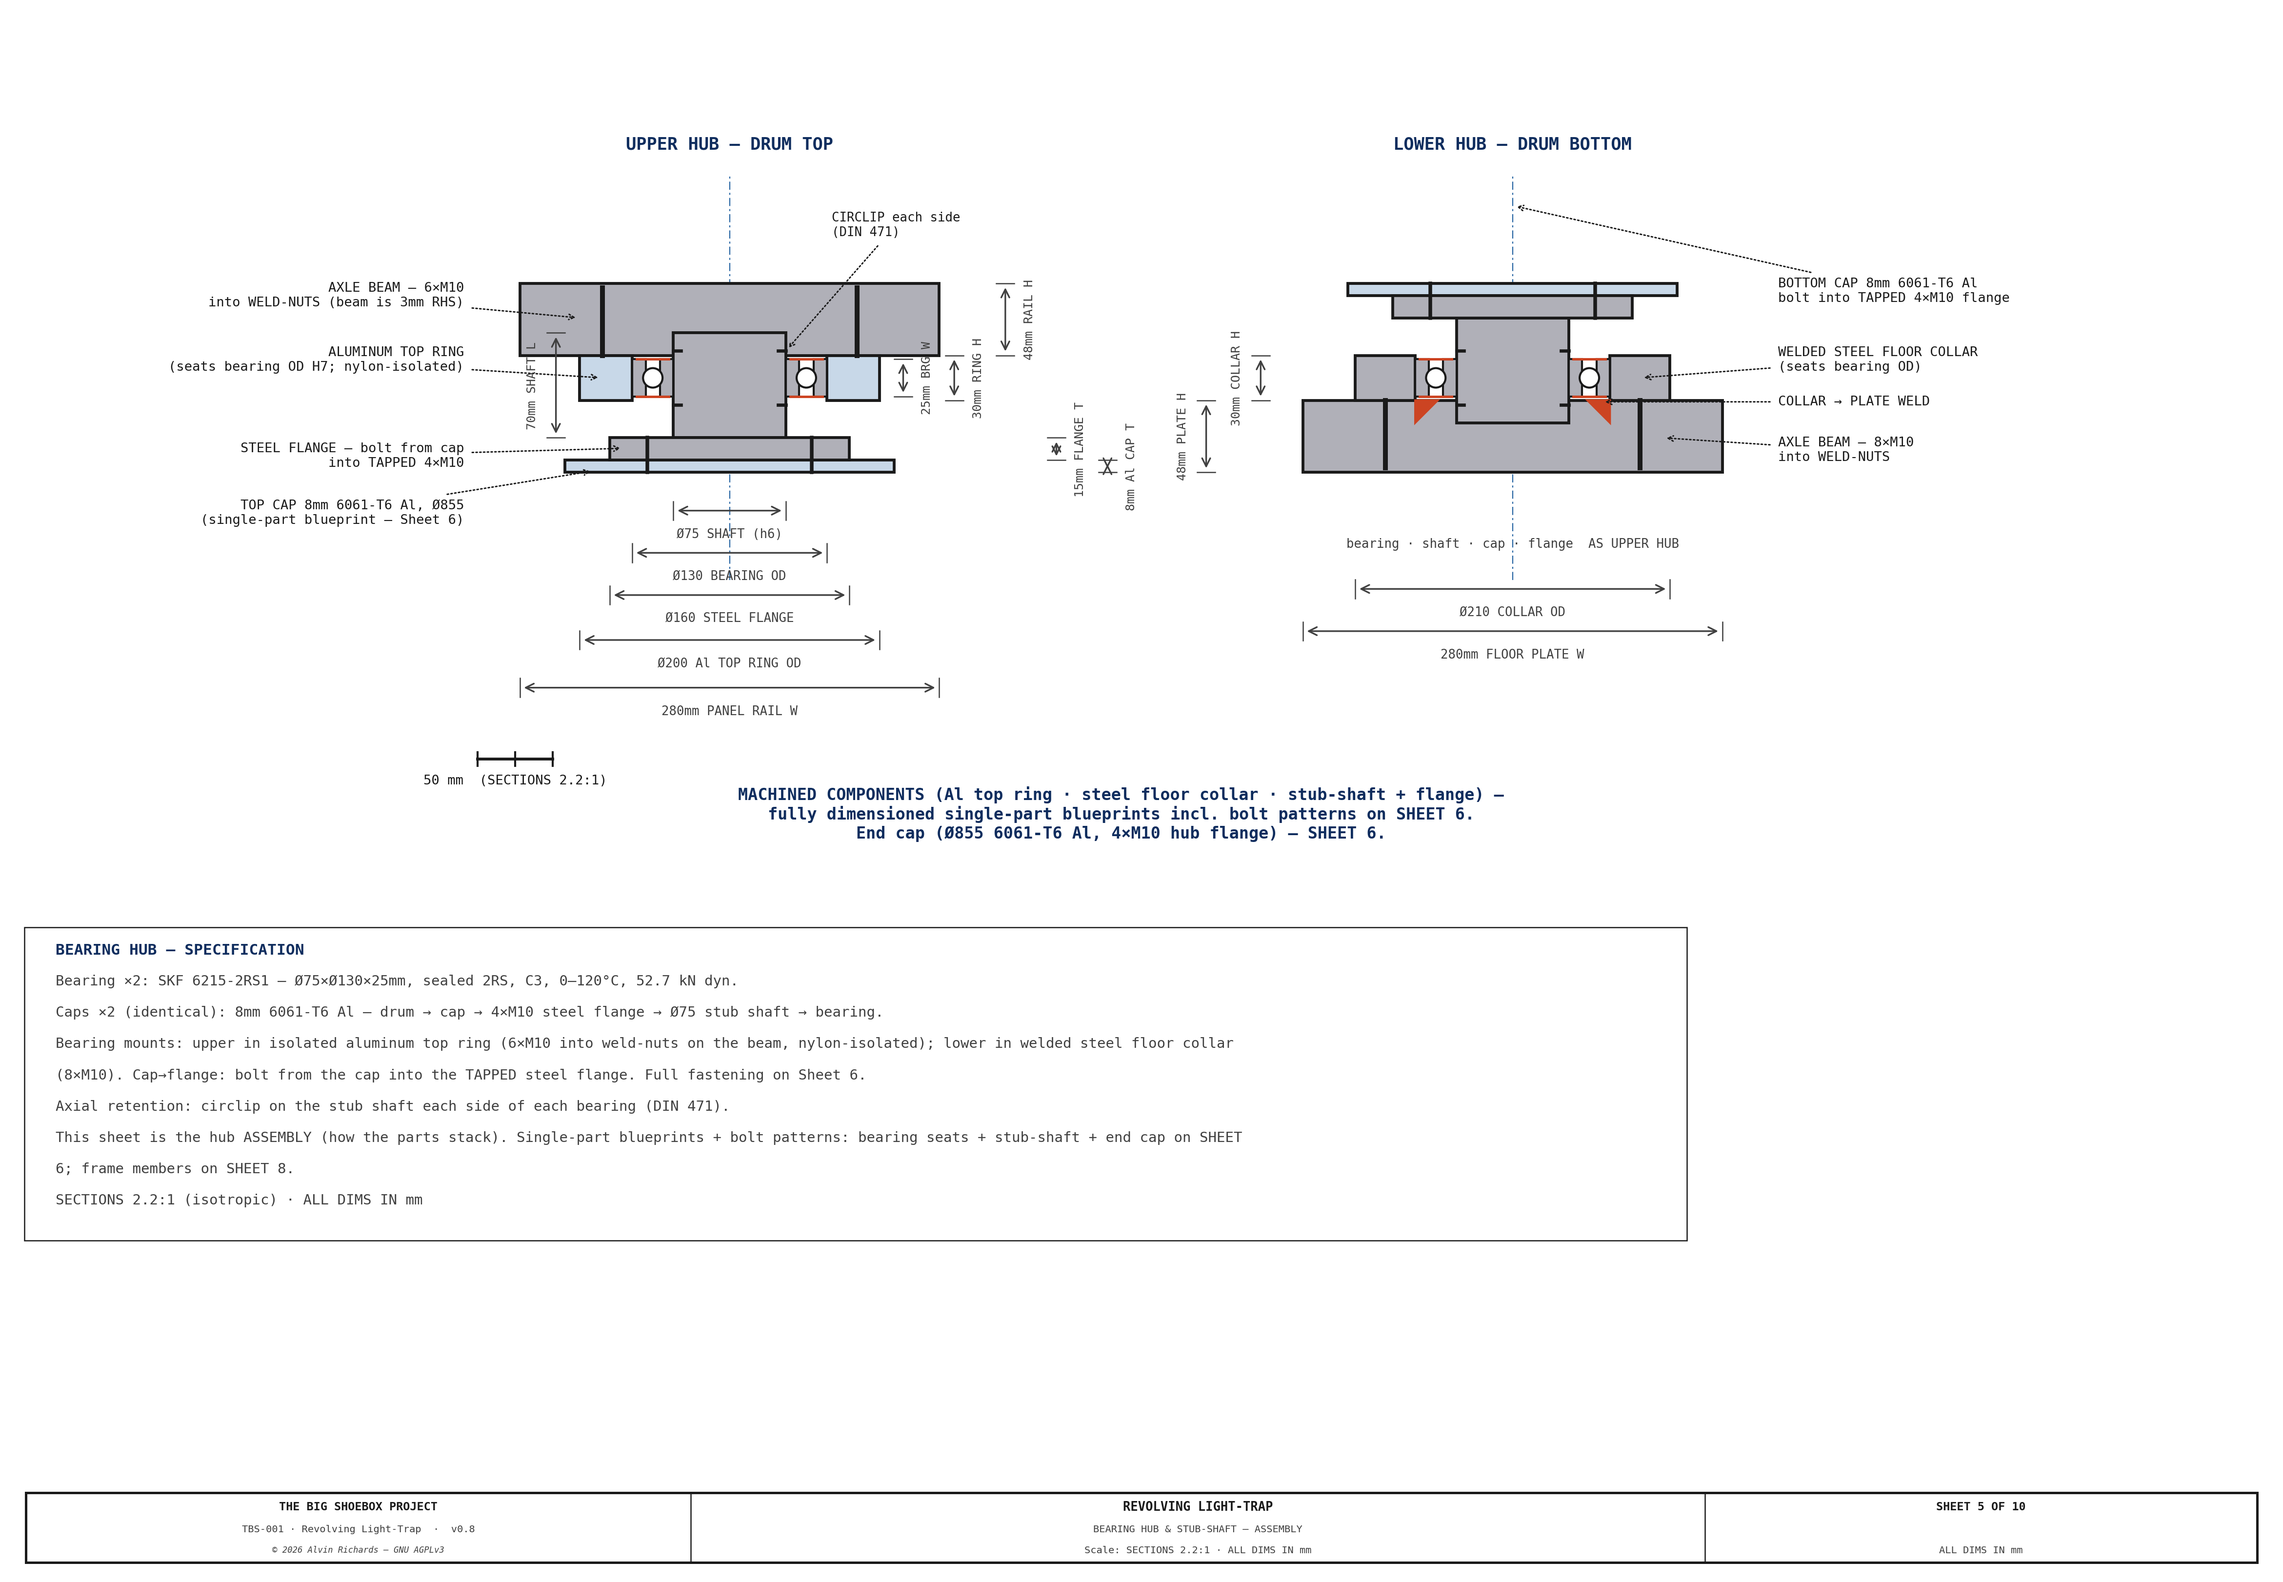
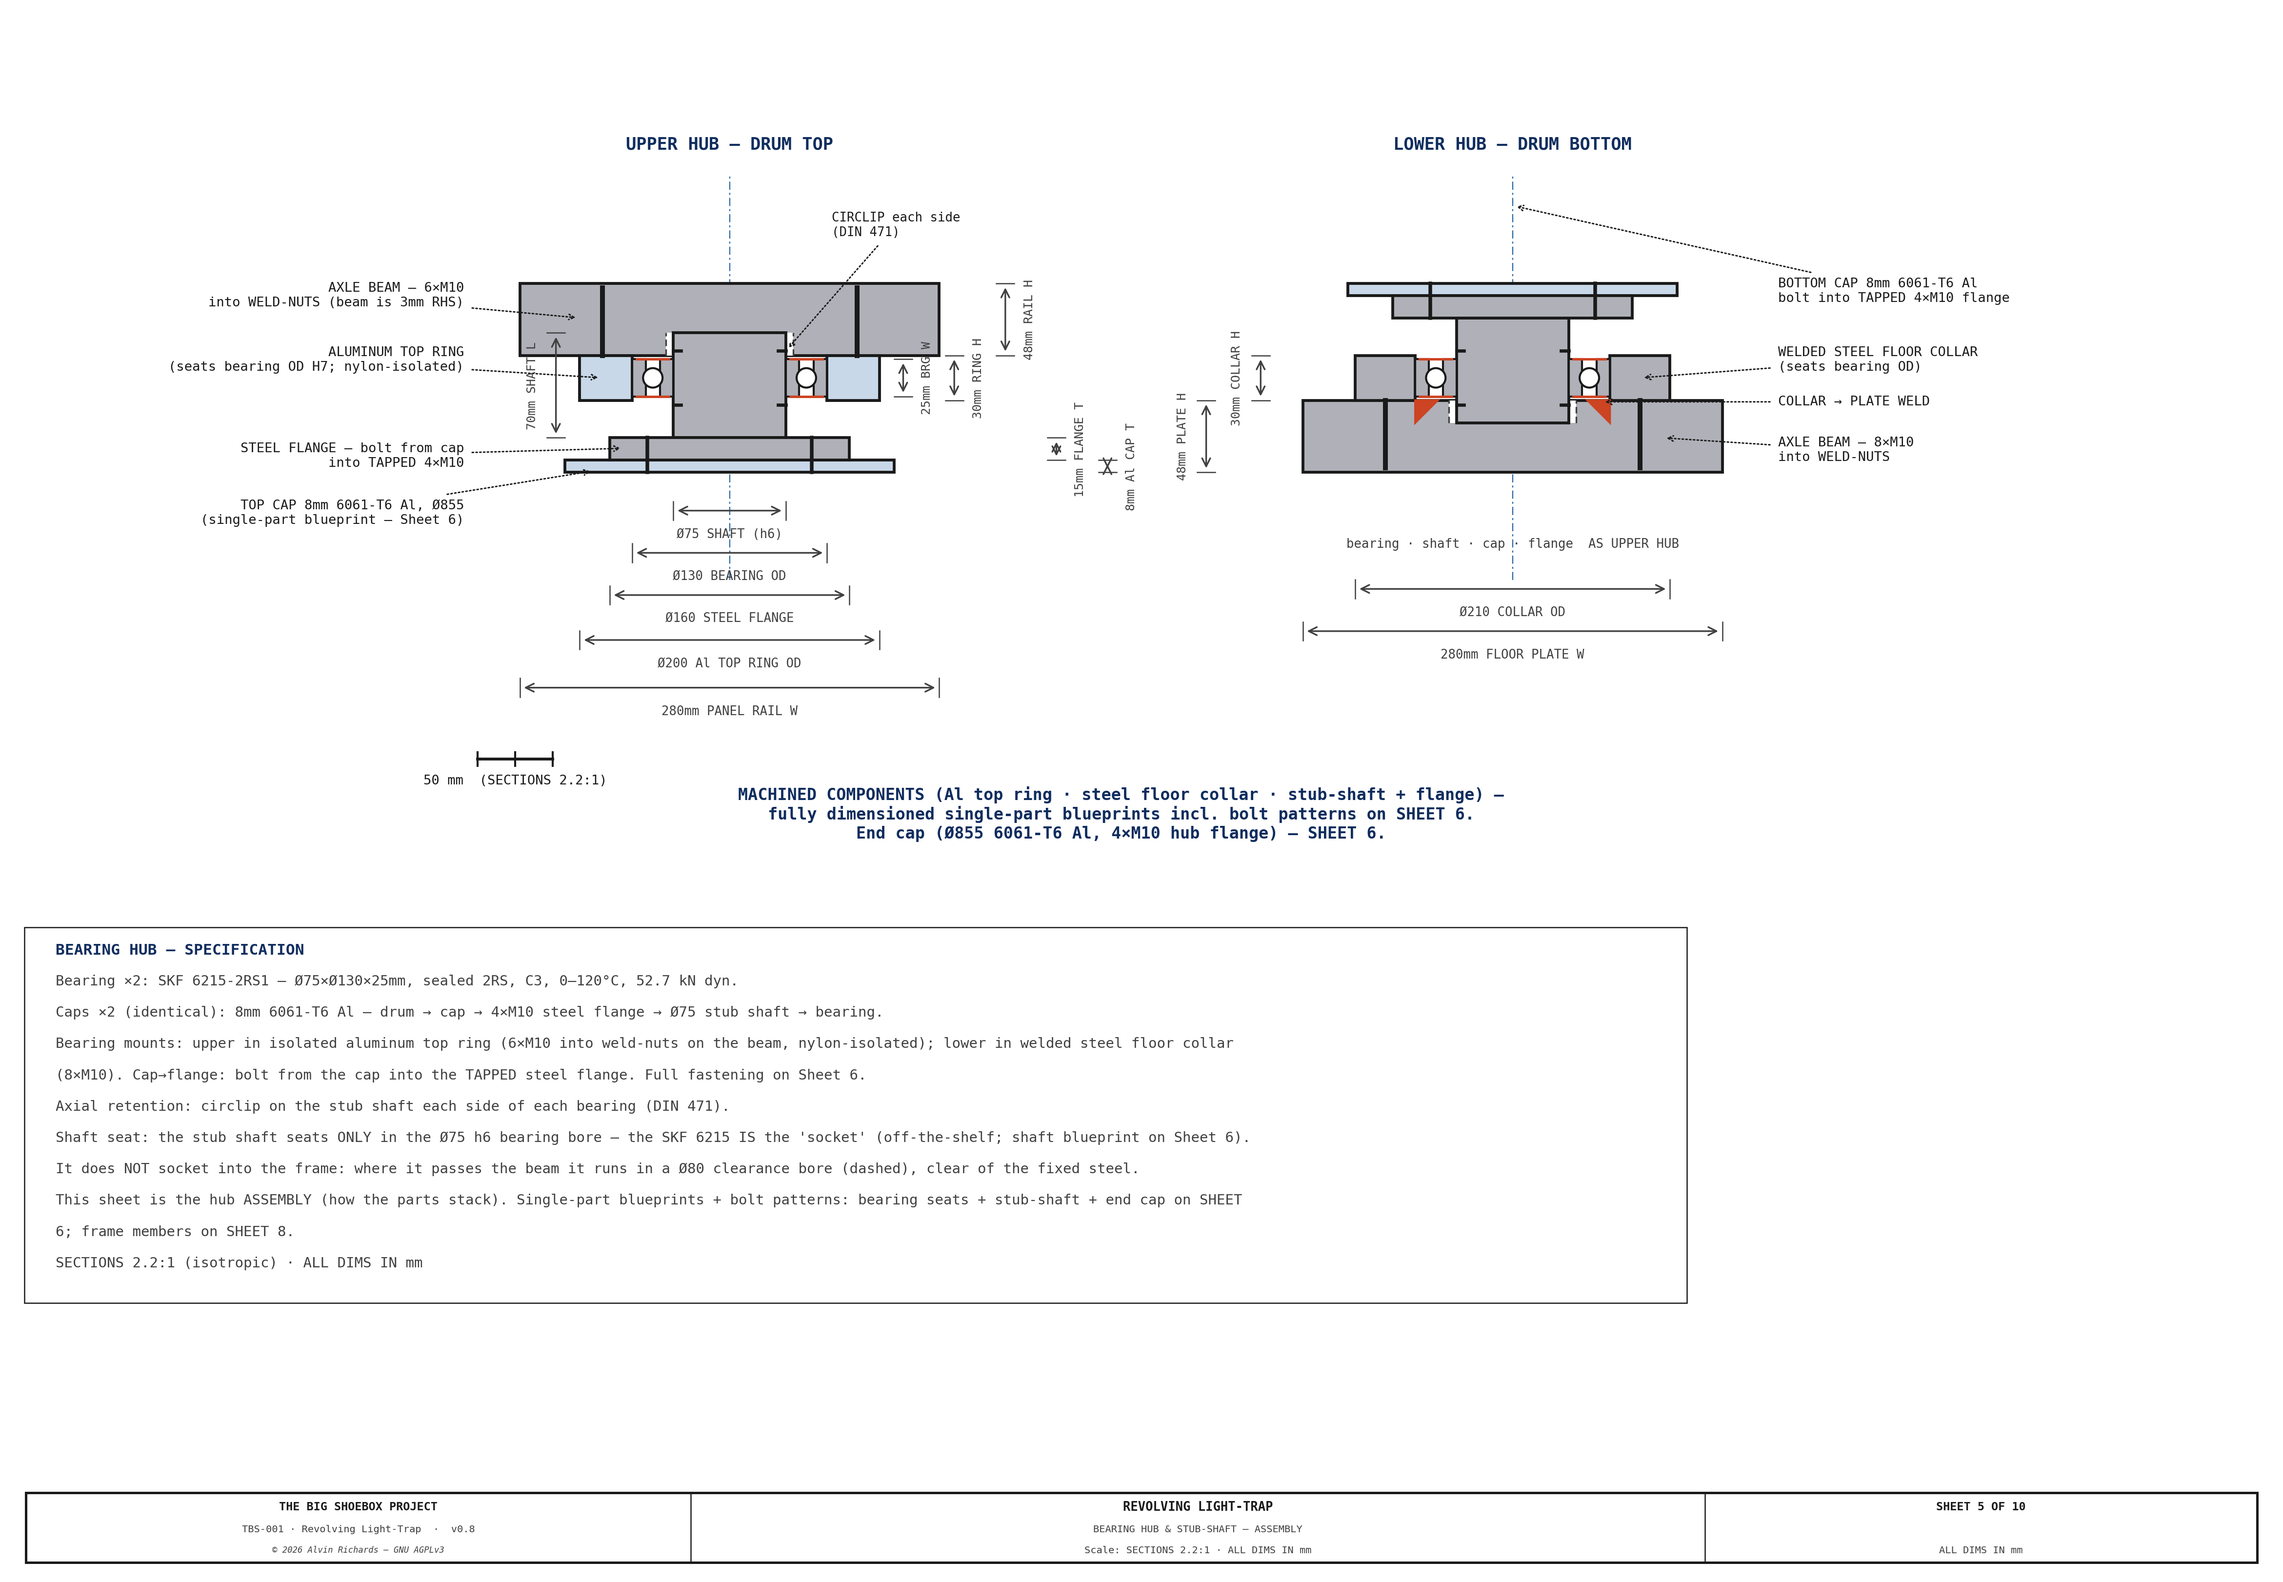
lighttrap: fix Sheet 10 rivet orientation + bolts, Sheet 5 shaft/socket, Sheet 8 welds
- Sheet 10 (details A/B): rivets were drawn as circles (reads as out-of-plane axis);
  they are RADIAL lap-joint rivets, so redraw them horizontal/in-section (blind_rivet ang=0)
- Sheet 10: add the securing bolts that were missing — Al ring -> axle beam (6xM10 weld-nuts)
  and cap -> stub-shaft flange (4xM10 tapped); also fix a stale running-gap leader that still
  described the old housing-mounted felt (now the 4 drum-mounted brush strips)
- Sheet 5: the stub shaft read as socketing into the frame; it seats ONLY in the bearing bore
  (SKF 6215 = the socket) and clears the beam via a Ø80 clearance bore — now drawn (dashed
  bore walls) + noted, so no extra machine drawing is implied
- Sheet 8: frame was labeled 'welded' but had no weld symbols; add 6mm fillet-weld triangles
  at every post<->beam / axle-beam<->rail junction in both the elevation and plan + a note

Changed region(s): [[0.0312, 0.7163, 0.4991, 0.8097]]

diff --git a/src/generators/generate_lighttrap_diagram.py b/src/generators/generate_lighttrap_diagram.py
@@ -486,6 +486,14 @@ def draw_sheet_hub():                              # Sheet 5 — bearing hub
         z_fl = -40 * SC * s
         draw_rect(ax, cx - rs, min(z_stub, z_fl), 2 * rs, abs(z_stub - z_fl),
                   fc=C_STEEL, lw=1.4, zorder=6)
+        # CLEARANCE bore where the stub shaft passes the beam/rail — it seats in the BEARING,
+        # NOT in the frame; a Ø80 clearance bore keeps the rotating shaft off the fixed beam.
+        zb_bot, bore_hw = 15 * SC * s, rs + 5 * SC
+        draw_rect(ax, cx - bore_hw, min(zb_bot, z_stub), 2 * bore_hw, abs(z_stub - zb_bot),
+                  fc="white", lw=0, zorder=5)
+        for g in (-1, 1):
+            ax.plot([cx + g * bore_hw] * 2, [min(zb_bot, z_stub), max(zb_bot, z_stub)],
+                    color=C_DIM, lw=0.8, ls=(0, (4, 2)), zorder=6)   # clearance-bore walls
         # bearing mount: isolated Al top ring (upper) / welded steel floor collar (lower)
         HRr = (100 if up else 105) * SC
         band(cx, ro, HRr, -15 * SC, 15 * SC,
@@ -601,6 +609,7 @@ def draw_sheet_hub():                              # Sheet 5 — bearing hub
         f"Caps ×2 (identical): {LT_CAP_TOP_T:.0f}mm 6061-T6 Al — drum → cap → 4×M10 steel flange → Ø75 stub shaft → bearing.",
         "Bearing mounts: upper in isolated aluminum top ring (6×M10 into weld-nuts on the beam, nylon-isolated); lower in welded steel floor collar (8×M10). Cap→flange: bolt from the cap into the TAPPED steel flange. Full fastening on Sheet 6.",
         "Axial retention: circlip on the stub shaft each side of each bearing (DIN 471).",
+        "Shaft seat: the stub shaft seats ONLY in the Ø75 h6 bearing bore — the SKF 6215 IS the 'socket' (off-the-shelf; shaft blueprint on Sheet 6). It does NOT socket into the frame: where it passes the beam it runs in a Ø80 clearance bore (dashed), clear of the fixed steel.",
         "This sheet is the hub ASSEMBLY (how the parts stack). Single-part blueprints + bolt patterns: bearing seats + stub-shaft + end cap on SHEET 6; frame members on SHEET 8.",
         "SECTIONS 2.2:1 (isotropic) · ALL DIMS IN mm",
     ]
@@ -811,6 +820,13 @@ def draw_sheet7():
     # 4 corner posts → in elevation the front/back pairs overlap: 2 vertical RHS
     for yd in (cyl, cyr - RHS):
         rrect(fe(yd, Z_BOT), RHS, cH, fc=C_STEEL, lw=1.4, zorder=4)
+    # FILLET WELDS (typ.) at every post↔beam joint — red triangles in the re-entrant corners
+    ws = 16
+    for yd, s in ((cyl + RHS, 1), (cyr - RHS, -1)):
+        for zb, zdir in ((Z_TOP - BH, -1), (Z_BOT + BH, 1)):
+            px, pz = fe(yd, zb)
+            ax.add_patch(mpatches.Polygon([(px, pz), (px + s * ws, pz), (px, pz + zdir * ws)],
+                                          closed=True, fc="#CC4422", ec="#CC4422", zorder=10))
     # bearings on the axis, seated in the beams (drum HANGS from the top beam)
     for z_brg in (Z_TOP - BH - SKF6215_W, Z_BOT + BH):
         rrect(fe(CY - SKF6215_OD / 2, z_brg), SKF6215_OD, SKF6215_W, fc="#B0B0B8", lw=1.2, zorder=8)
@@ -861,6 +877,21 @@ def draw_sheet7():
             rrect(fp(xx, yy), RHS, RHS, fc="#9BA0A8", lw=1.2, zorder=6)
     # AXLE BEAM — spans Yd at the drum axis X, central bearing at midspan
     rrect(fp(CX - LT_AXLE_BEAM_W / 2, cyl), LT_AXLE_BEAM_W, cW_y, fc=C_STEEL, lw=1.4, zorder=7)
+    # FILLET WELDS (plan) — small red triangles at each member junction (fp-based, orientation-safe)
+    wsp = 16
+
+    def weld_tri(Xc, Ydc, Xd, Ydd):
+        ax.add_patch(mpatches.Polygon([fp(Xc, Ydc), fp(Xc + Xd, Ydc), fp(Xc, Ydc + Ydd)],
+                                      closed=True, fc="#CC4422", ec="#CC4422", zorder=10))
+    for xx in (cx0, cx1 - RHS):                            # 4 corner posts ↔ rails
+        sx = wsp if xx < CX else -wsp
+        cX = xx + RHS if xx < CX else xx
+        for yy in (cyl, cyr - RHS):
+            sy = wsp if yy < CY else -wsp
+            cY = yy + RHS if yy < CY else yy
+            weld_tri(cX, cY, sx, sy)
+    weld_tri(CX - LT_AXLE_BEAM_W / 2, cyl + RHS, LT_AXLE_BEAM_W, wsp)      # axle beam ↔ near rail
+    weld_tri(CX - LT_AXLE_BEAM_W / 2, cyr - RHS, LT_AXLE_BEAM_W, -wsp)     # axle beam ↔ far rail
     draw_dim_h(ax, fp(CX - LT_AXLE_BEAM_W / 2, cyr)[0], fp(CX + LT_AXLE_BEAM_W / 2, cyr)[0],
                fp(0, cyr)[1] + 40, f"{LT_AXLE_BEAM_W}mm AXLE BEAM W (at drum axis X)",
                offset=45, fs=6.5, font=FONT)
@@ -916,9 +947,10 @@ def draw_sheet7():
         f"Bearing seats: upper isolated 6061-T6 Al ring (Ø{LT_TOPRING_OD}, {LT_FRAME_MOUNT_BOLT_TOP}×M10); lower welded steel collar (Ø{LT_COLLAR_OD}, {LT_FRAME_MOUNT_BOLT_BOT}×M10).",
         f"Fixed housing (outer skin) laps + rivets to rim-angle on the top/bottom beams; free opening edges capped by {LT_EDGE_CHAN_N}× Al U-channel (ends bolt to the beams) — see Sheet 9. Drum rotates free inside.",
         "The cage is welded into the panel top/bottom rails → one structure, swings together. Panel frame owned by the hinged-panel report.",
+        "WELDS (red triangles): 6mm fillet weld all-round at every member junction — each corner post to the top/bottom axle beams + perimeter rails, and the axle beam ends to the rails (typ., both views).",
         "ALL DIMS IN mm · plate thickness exaggerated for clarity",
     ]
-    draw_notes(ax, notes, X_LO + 60, -300, 92, fs=7, font=FONT, width=2500,
+    draw_notes(ax, notes, X_LO + 60, -300, 92, fs=7, font=FONT, width=2500, wrap=138,
                title_color=TITLE_COL)
 
     title_block(ax, "SHEET 8 OF 10", drawing_title="REVOLVING LIGHT-TRAP",
@@ -1289,13 +1321,25 @@ def draw_sheet9():
     ax.plot([bID, bID + 8], [Z_BRG0 + bW + 4, Z_BRG0 + bW + 4], color=C_OUT, lw=0.9, zorder=8)  # circlip
     draw_rect(ax, 0, -LT_CAP_TOP_T, CAPR, LT_CAP_TOP_T, fc=C_ALUM, lw=1.2, zorder=5)  # 8mm Al cap disc
     draw_rect(ax, 0, 0, 55, 16, fc=C_ALUM, lw=1.0, zorder=6)                         # bolted hub boss (4×M10)
+    # ── Securing bolts: Al ring → axle beam (M10 into weld-nuts) + cap → flange (M10 tapped) ─
+    rbx = bOD + 15                                                                    # ring → beam bolt
+    ax.plot([rbx, rbx], [Z_BRG0 - 3, Z_BEAM0 + LT_AXLE_BEAM_H * 0.55], color=C_OUT, lw=2.4, zorder=9)
+    ax.plot([rbx - 8, rbx + 8], [Z_BRG0 - 3, Z_BRG0 - 3], color=C_OUT, lw=2.6, zorder=9)   # bolt head under the ring
+    cbx = 46                                                                          # cap → flange bolt
+    ax.plot([cbx, cbx], [-LT_CAP_TOP_T - 3, 16], color=C_OUT, lw=2.4, zorder=9)
+    ax.plot([cbx - 8, cbx + 8], [-LT_CAP_TOP_T - 3, -LT_CAP_TOP_T - 3], color=C_OUT, lw=2.6, zorder=9)  # bolt head under the cap
+    leader(ax, rbx, Z_BEAM0 + LT_AXLE_BEAM_H * 0.4, POST_R0 - 30, Z_BEAM0 + LT_AXLE_BEAM_H + 60,
+           f"Al RING → BEAM\n{LT_FRAME_MOUNT_BOLT_TOP}×M10 into weld-nuts", fs=6.0, color=C_OUT,
+           ha="right", arrow_style="->", font=FONT)
+    leader(ax, cbx, -LT_CAP_TOP_T - 3, 250, -LT_CAP_TOP_T - 175,
+           "CAP → FLANGE\n4×M10 (tapped)", fs=6.0, color=C_OUT, ha="left", arrow_style="->", font=FONT)
 
     # ── INNER joint — drum shell → cap lap (to scale; detail on Sheet 4) ─────
     draw_rect(ax, CAPR - LT_RIM_LEG, 0, LT_RIM_LEG, LT_RIM_T, fc=C_ALUM, lw=0.8, zorder=6)   # rim flat leg
     draw_rect(ax, CAPR - LT_RIM_T, 0, LT_RIM_T, LT_LAP_H, fc=C_ALUM, lw=0.8, zorder=6)       # standing lip (up)
     draw_rect(ax, DIR_, Z_BRK, LT_DRUM_T, LT_LAP_H - Z_BRK, fc=C_LT_DRUM, lw=1.0, zorder=7)  # drum shell (laps up, hangs down)
-    draw_circle(ax, (CAPR - LT_RIM_T + DOR_) / 2, LT_LAP_H / 2, LT_RIVET_D / 2,
-                lw=0.6, color=C_OUT, fill=True, fc="#C9CCD2", zorder=8)                       # blind rivet (Ø3.18, to scale)
+    blind_rivet(ax, (CAPR - LT_RIM_T + DOR_) / 2, LT_LAP_H / 2, 0,
+                DOR_ - (CAPR - LT_RIM_T), d=LT_RIVET_D)                                       # RADIAL blind rivet (in-section, dome outboard)
 
     # ── Running gap + felt seal (to scale; detail on Sheet 7) ────────────────
     draw_rect(ax, DOR_, LT_LAP_H / 2 - 4, RUN_GAP, 8, fc="#7E7E76", lw=0.5, zorder=6)
@@ -1304,8 +1348,8 @@ def draw_sheet9():
     draw_rect(ax, HIR_, Z_BRK, LT_HOUSING_T, Z_BEAM0 - Z_BRK, fc="#DDE4EC", lw=1.0, zorder=6)  # housing wall
     draw_rect(ax, HIR_ - LT_RIM_T, Z_BEAM0 - LT_LAP_H, LT_RIM_T, LT_LAP_H, fc=C_ALUM, lw=0.8, zorder=7)  # lip (down)
     draw_rect(ax, HIR_ - LT_RIM_LEG, Z_BEAM0 - LT_RIM_T, LT_RIM_LEG, LT_RIM_T, fc=C_ALUM, lw=0.8, zorder=7)  # flat leg → beam
-    draw_circle(ax, (HIR_ - LT_RIM_T + HOR_) / 2, Z_BEAM0 - LT_LAP_H / 2, LT_RIVET_D / 2,
-                lw=0.6, color=C_OUT, fill=True, fc="#C9CCD2", zorder=8)                       # blind rivet (Ø3.18, to scale)
+    blind_rivet(ax, (HIR_ - LT_RIM_T + HOR_) / 2, Z_BEAM0 - LT_LAP_H / 2, 0,
+                HOR_ - (HIR_ - LT_RIM_T), d=LT_RIVET_D)                                       # RADIAL blind rivet (in-section, dome outboard)
 
     # break lines (drum + housing continue down the full 2,200mm) ─────────────
     for r0, r1 in ((DIR_ - 4, DOR_ + 4), (HIR_ - 4, HOR_ + 4)):
@@ -1356,7 +1400,7 @@ def draw_sheet9():
     leader(ax, 30, 8, -150, -35, "Al CAP + BOLTED\nSTUB HUB (4×M10)", fs=6.5, color=C_OUT,
            ha="right", arrow_style="->", font=FONT)
     leader(ax, DOR_ + RUN_GAP / 2, LT_LAP_H / 2, 700, 55,
-           f"RUNNING GAP {RUN_GAP}mm — felt/brush wiper in an Al retainer channel\nscrewed to the FIXED housing bore; the rotating drum wipes against it (Sheet 7)",
+           f"RUNNING GAP {RUN_GAP}mm — {LT_WIPER_N}× nylon brush strips RIVETED to the\nROTATING drum OD, bristles wiping the fixed housing bore (Sheet 7)",
            fs=6.5, color=C_OUT, ha="left", arrow_style="->", font=FONT)
     leader(ax, LT_AXLE_BEAM_SPAN / 2 - 60, Z_BEAM0 + LT_AXLE_BEAM_H / 2, 700, Z_BEAM0 + 120,
            f"AXLE BEAM {LT_AXLE_BEAM_H}×{LT_AXLE_BEAM_W} steel RHS — carries the central\nbearing + the fixed housing; swing-panel weldment (Sheet 8)",
